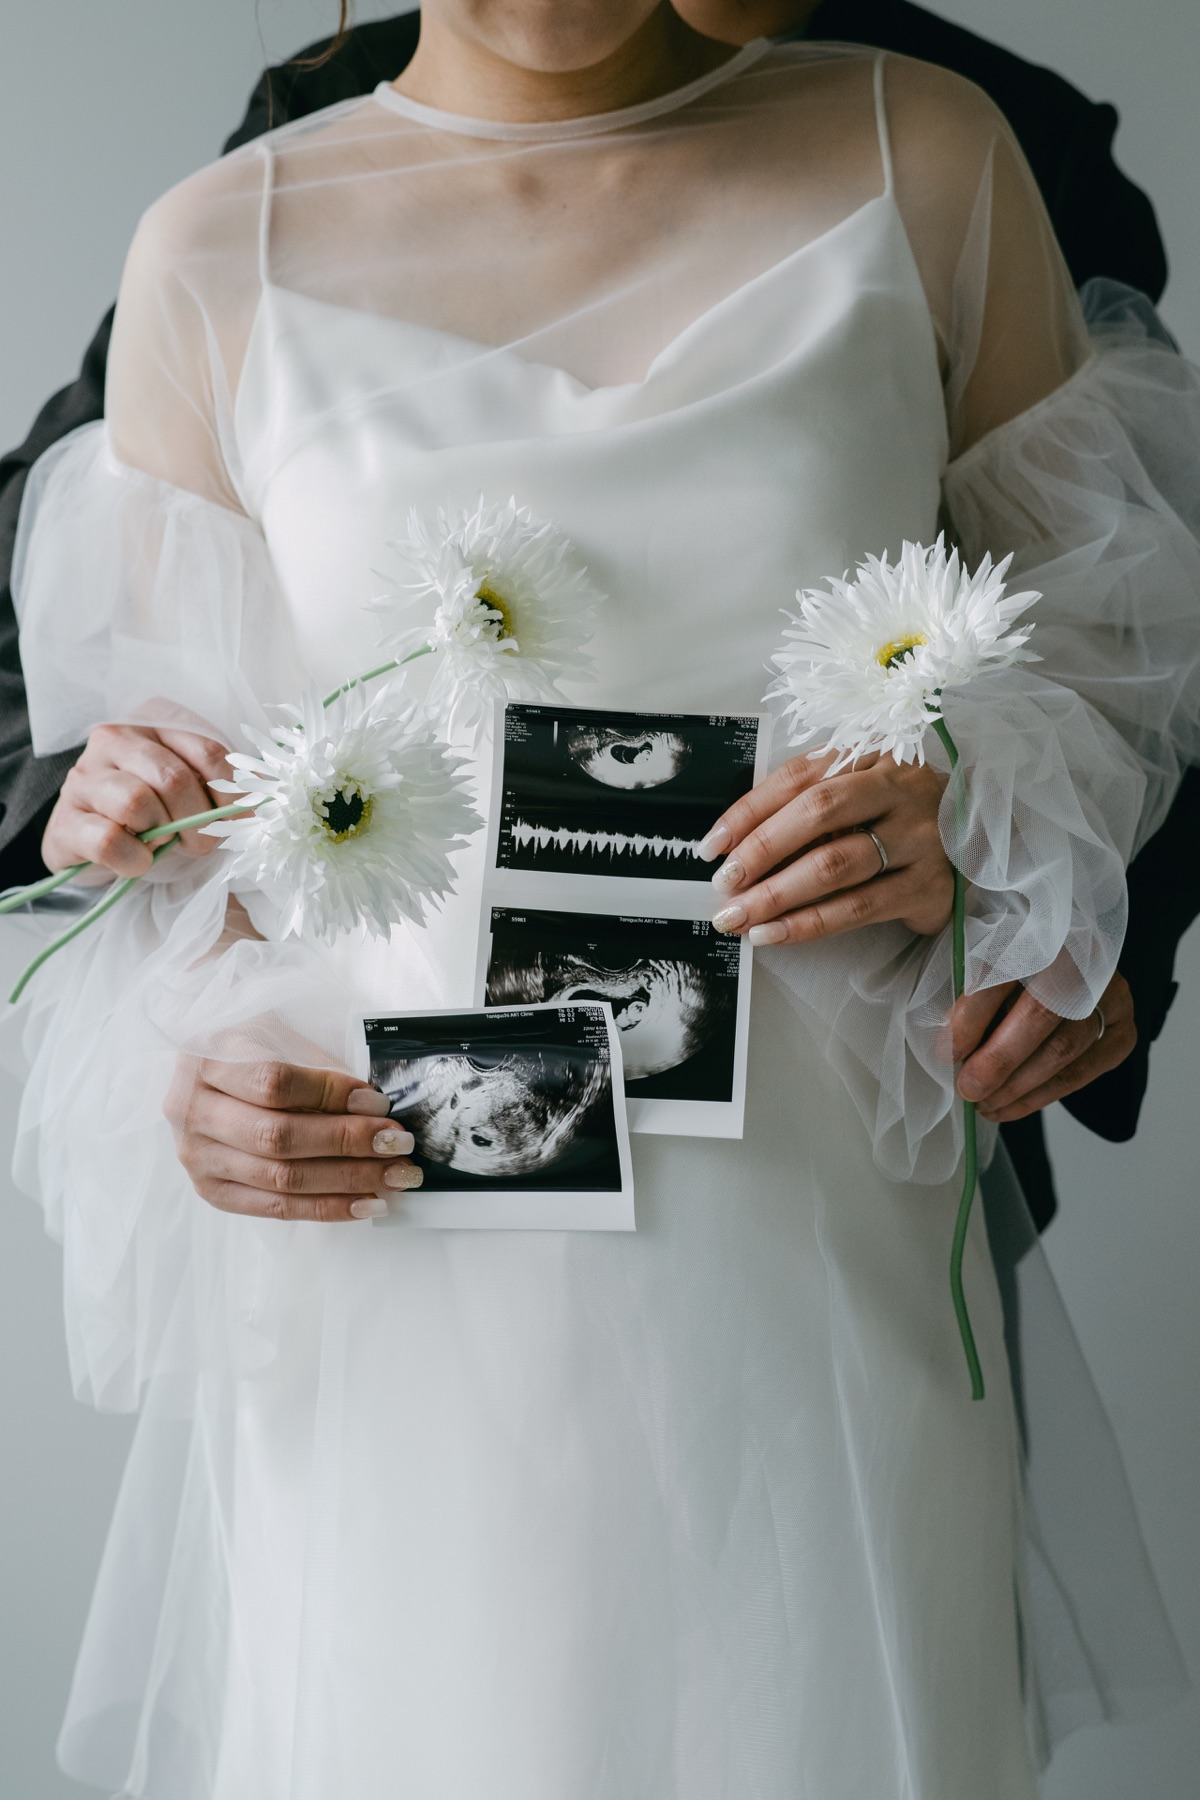
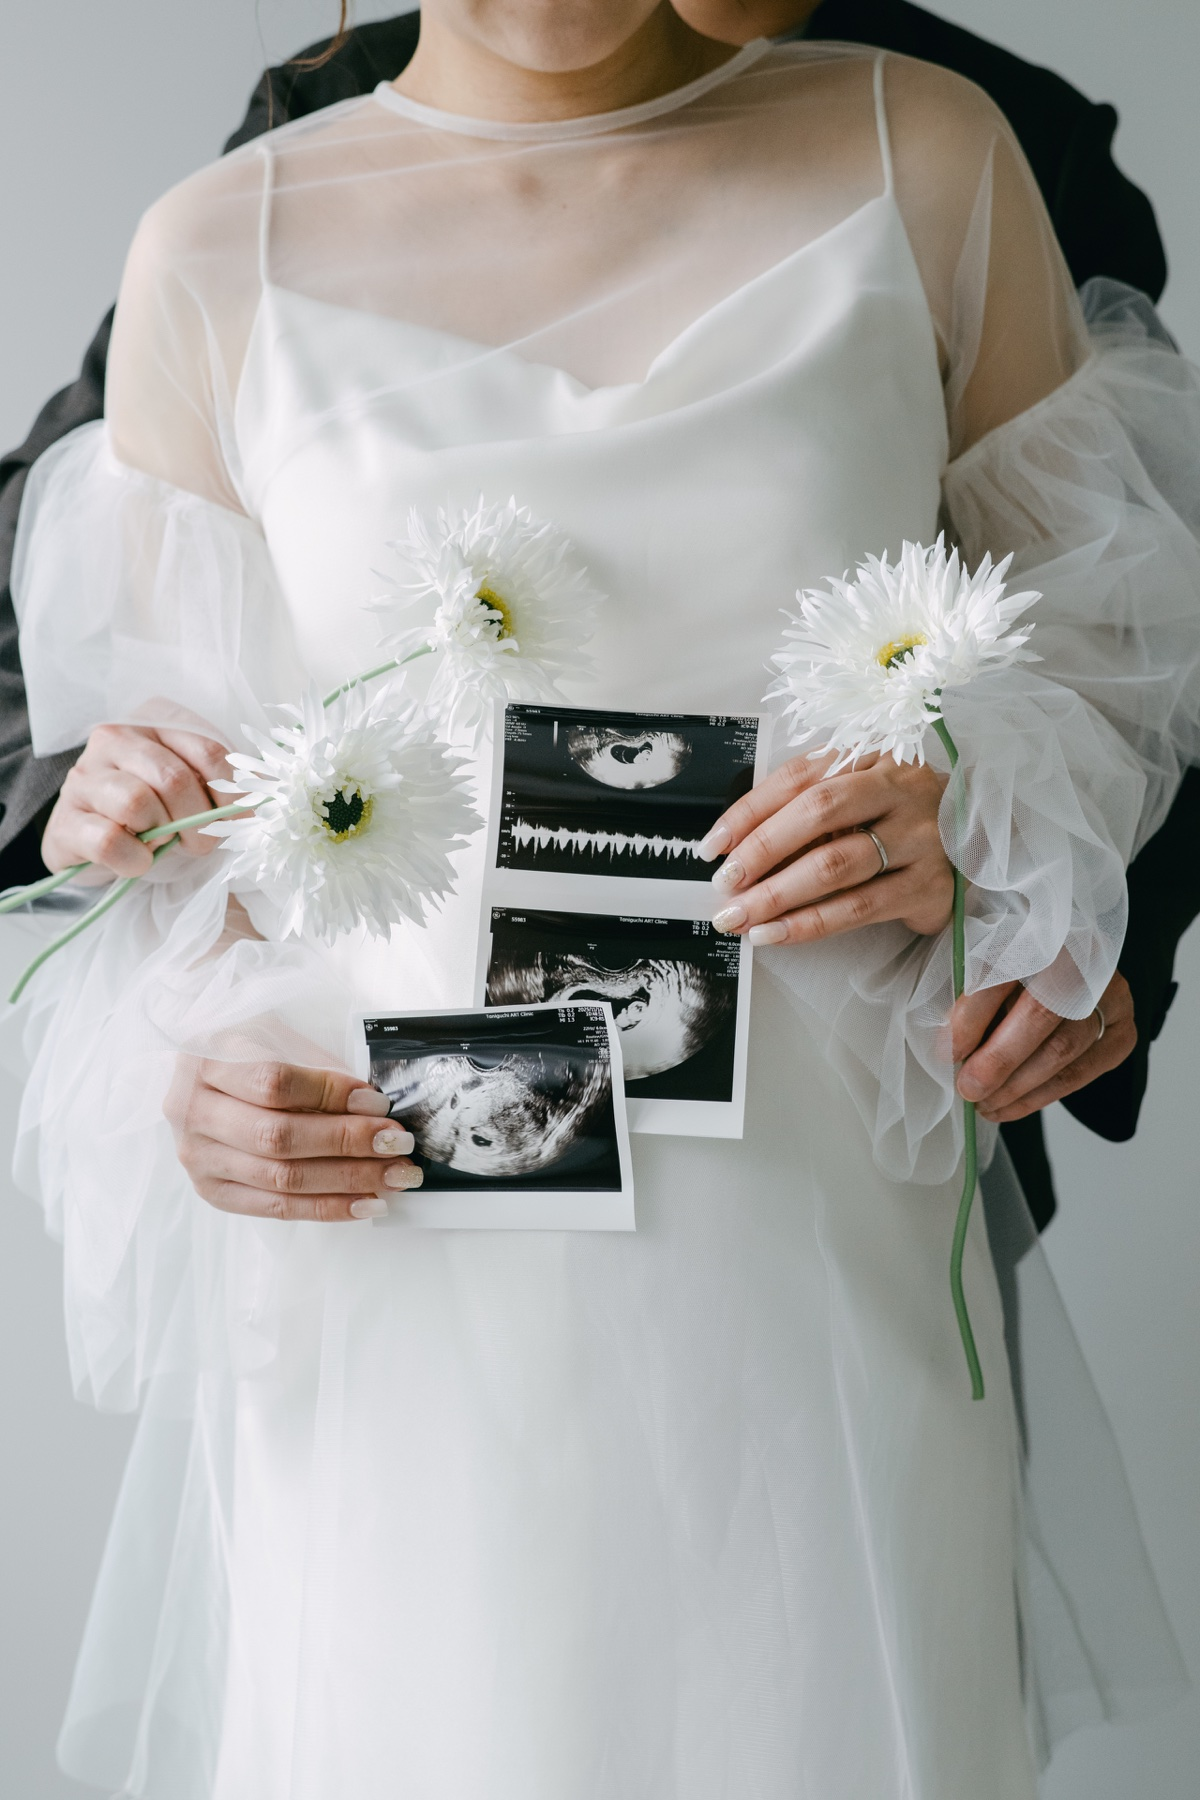
Align plan card content

diff --git a/assets/css/styles.css b/assets/css/styles.css
@@ -442,11 +442,11 @@ html.splash-skipped body.splash-on { overflow: auto; }
   min-height: 560px;
   width: 100%;
   aspect-ratio: 167/309;
-  padding: 20px 28px;
+  padding: 168px 28px 20px;
   border: 1px solid var(--line);
   display: flex;
   flex-direction: column;
-  justify-content: center;
+  justify-content: flex-start;
   border-radius: 0 10px 0 0;
 }
 .plan-card::after {
@@ -457,11 +457,11 @@ html.splash-skipped body.splash-on { overflow: auto; }
   z-index: 1;
 }
 .plan-card.plan01 {
-  background: url(../img/plan01.jpg) center no-repeat;
+  background: url(../img/plan02.jpg) center no-repeat;
   background-size: cover;
 }
 .plan-card.plan02 {
-  background: url(../img/plan02.jpg) center no-repeat;
+  background: url(../img/plan01.jpg) center no-repeat;
   background-size: cover;
 }
 .plan-card.plan03 {
@@ -541,13 +541,12 @@ html.splash-skipped body.splash-on { overflow: auto; }
 }
 
 .plan-copy {
-  margin: 0 0 22px;
+  margin: 0 0 18px;
   text-align: center;
   line-height: 1.4;
   font-size: clamp(14px, 1.08vw, 16px);
   font-weight: 300;
   text-shadow: 0 0 5px rgba(255,255,255,0.2);
-  transform: translateY(-6px);
   white-space: nowrap;
 }
 
@@ -576,7 +575,8 @@ html.splash-skipped body.splash-on { overflow: auto; }
 .plan-card .plan-tags {
   display: flex;
   flex-wrap: wrap;
-  justify-content: flex-start;
+  align-items: flex-start;
+  justify-content: center;
   gap: 4px 5px;
   margin: 0 auto 14px;
   width: 100%;

diff --git a/index.html b/index.html
@@ -109,7 +109,7 @@
         <a href="#faq"><span>FAQ</span><small>よくある質問</small></a>
         <a href="#contact"><span>Contact</span><small>お問い合わせ</small></a>
         <div class="drawer-info" aria-hidden="true">
-          <p>長崎市中町8-13 アンサンブルビル 2階<br>Ensemble Bldg., 2F 8-13 Nakazono-machi, Nagasaki, Japan</p>
+          <p>長崎市中園町8-13 アンサンブルビル 2階<br>Ensemble Bldg., 2F 8-13 Nakazono-machi, Nagasaki, Japan</p>
           <span class="instagram-icon"></span>
         </div>
       </nav>
@@ -246,9 +246,7 @@
             <p class="rental-txt mb">
               普段はフォトスタジオとして使用している空間をレンタルスペースとしてご利用いただけます。<br>
               完全貸切のプライベートな空間ですので、<br>
-              周りを気にせずイベントやワークショップを開催いただけます。
-            </p>
-            <p class="rental-txt">
+              周りを気にせずイベントやワークショップを開催いただけます。<br>
               複数店舗でのマルシェなども大歓迎です。
             </p>
             <div class="use-list">
@@ -256,7 +254,7 @@
             </div>
             <div class="rental-actions">
               <a href="https://nina-mariage.com/contact" target="_blank" rel="noopener">
-                <span class="window-icon">お申し込みはこちら</span>
+                <span class="window-icon">お問い合わせはこちら</span>
               </a>
               <a href="#">
                 <span class="pdf-icon">スタジオ図面はこちら</span>
@@ -305,7 +303,7 @@
         </div>
         <p class="access-address">
           長崎市中園町8-13 アンサンブルビル2階<br>
-          <span class="latin">Ensemble Bldg. 2F 8-13 Nakazonomachi, Nagasaki, Japan</span>
+          <span class="latin">Ensemble Bldg. 2F 8-13 Nakazono-machi, Nagasaki, Japan</span>
         </p>
         <div class="map-box">
           <iframe src="https://www.google.com/maps/embed?pb=!1m16!1m12!1m3!1d6708.070310339121!2d129.85525455833388!3d32.7913271142384!2m3!1f0!2f0!3f0!3m2!1i1024!2i768!4f13.1!2m1!1z6ZW35bSO5biC5Lit55S6OC0xMyDjgqLjg7PjgrXjg7Pjg5bjg6vjg5Pjg6s!5e0!3m2!1sja!2sjp!4v1778896235117!5m2!1sja!2sjp" width="1500" height="600" style="border:0;" allowfullscreen="" loading="lazy" referrerpolicy="no-referrer-when-downgrade"></iframe>
@@ -431,7 +429,7 @@
     <footer class="site-footer">
       <div>
         <a class="logo footer-logo" href="#top"><img src="assets/img/logo-room27.svg" alt="room27"></a>
-        <address>長崎市中町8-13 アンサンブルビル2階<br>Ensemble Bldg. 2F 8-13 Nakamachi, Nagasaki, Japan</address>
+        <address>長崎市中園町8-13 アンサンブルビル2階<br>Ensemble Bldg. 2F 8-13 Nakazono-machi, Nagasaki, Japan</address>
         <p class="copyright">© 2026 <a href="https://nina-mariage.com/contact" target="_blank" rel="noopener">nina mariage<img src="assets/img/windo_icon.svg" alt=""></a>　All rights reserved.</p>
       </div>
       <nav>